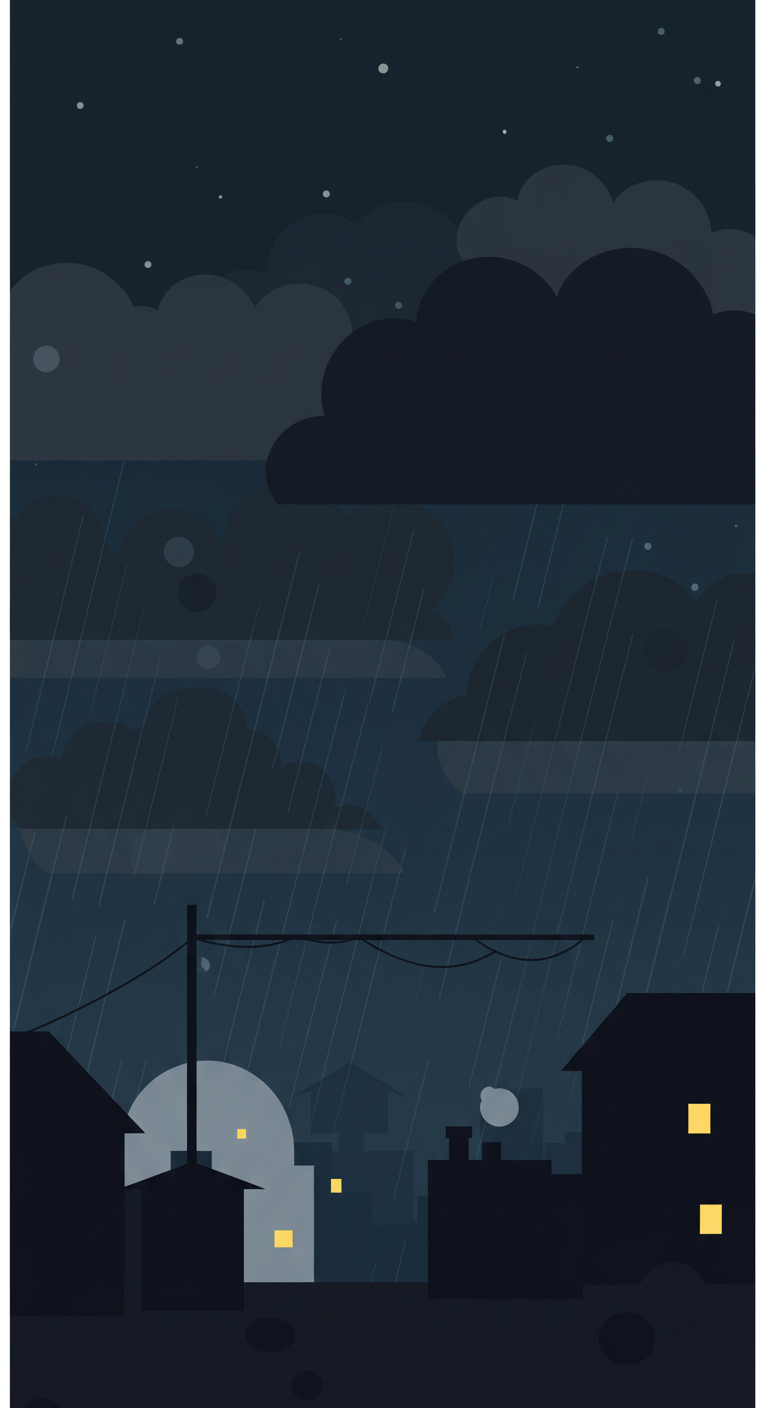
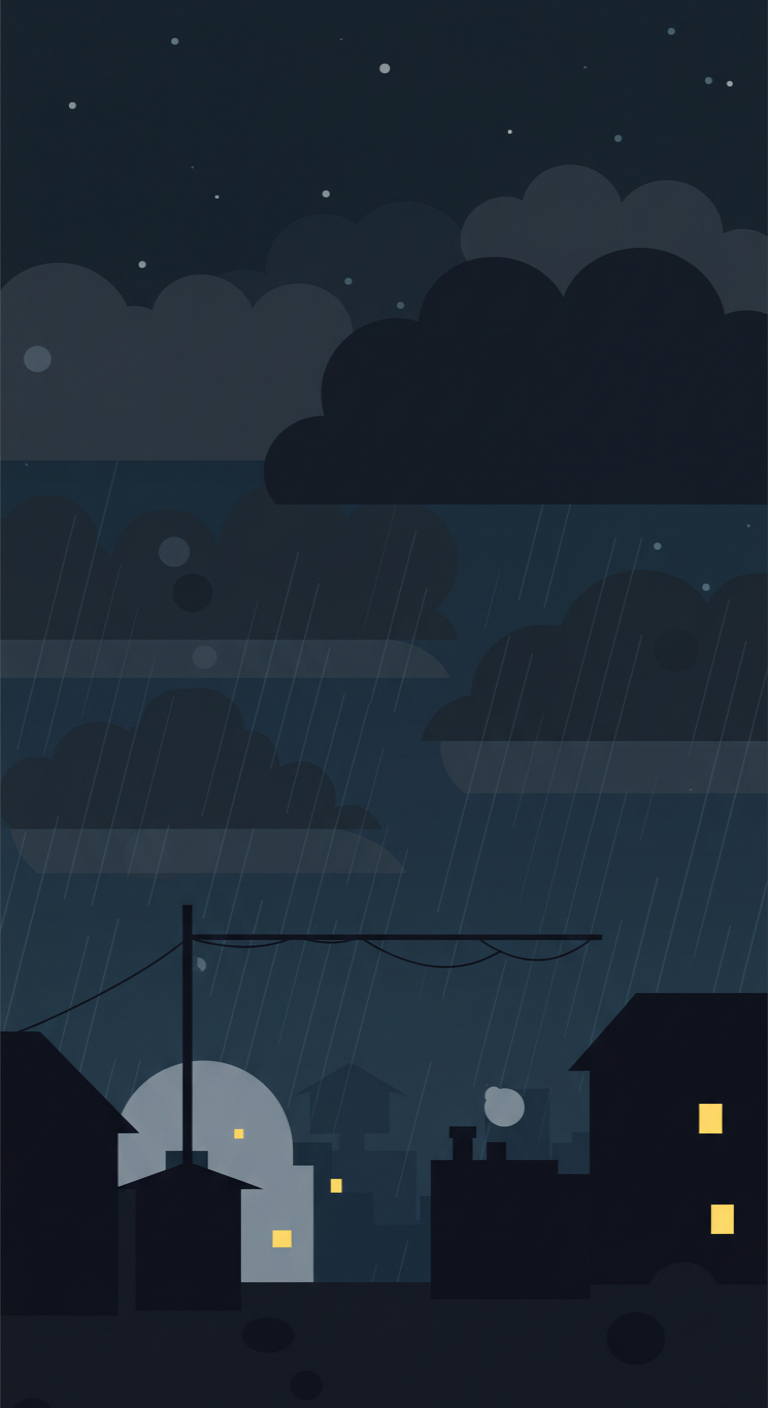
fix: cropped out white borders in some images

diff --git a/app/index.jsx b/app/index.jsx
@@ -15,7 +15,7 @@ const HomeScreen = () => {
   console.warn(weatherCode);
   return (
     <WeatherProvider>
-      <View className="flex-1">
+      <View style={{ height: "100%", width: "100%" }}>
         <WeatherBackground weatherCode={weatherCode} />
         <ScrollView className="flex-1 w-full">
           <SearchBarProvider>
